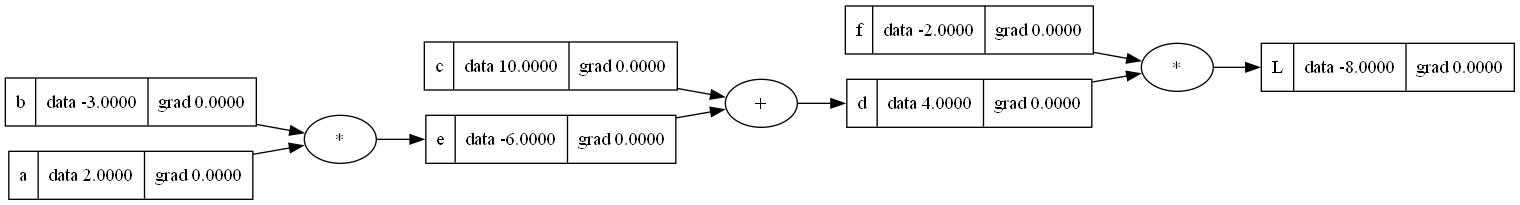
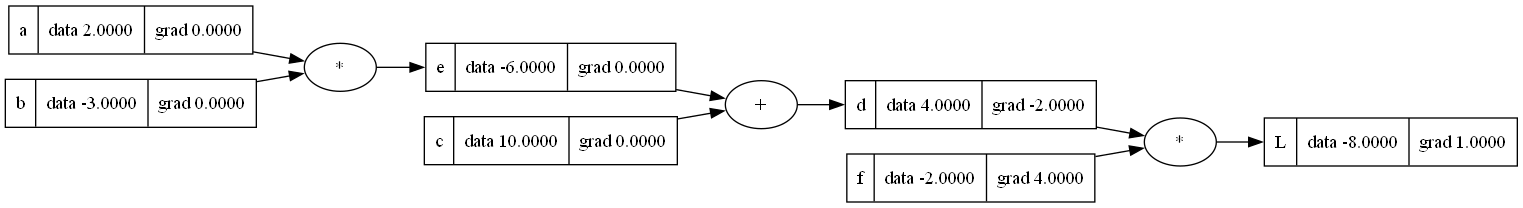
gradients

diff --git a/micrograd.py b/micrograd.py
@@ -82,6 +82,12 @@ def main():
     d = e + c; d.label='d'
     f = Value(-2.0, label='f')
     L = d*f; L.label='L'
+
+    L.grad = 1.0
+    f.grad = 4.0
+    d.grad = -2.0
+    
+
     dot = draw_dot(L)
     dot.render('graph', format='png', cleanup=True)
 
